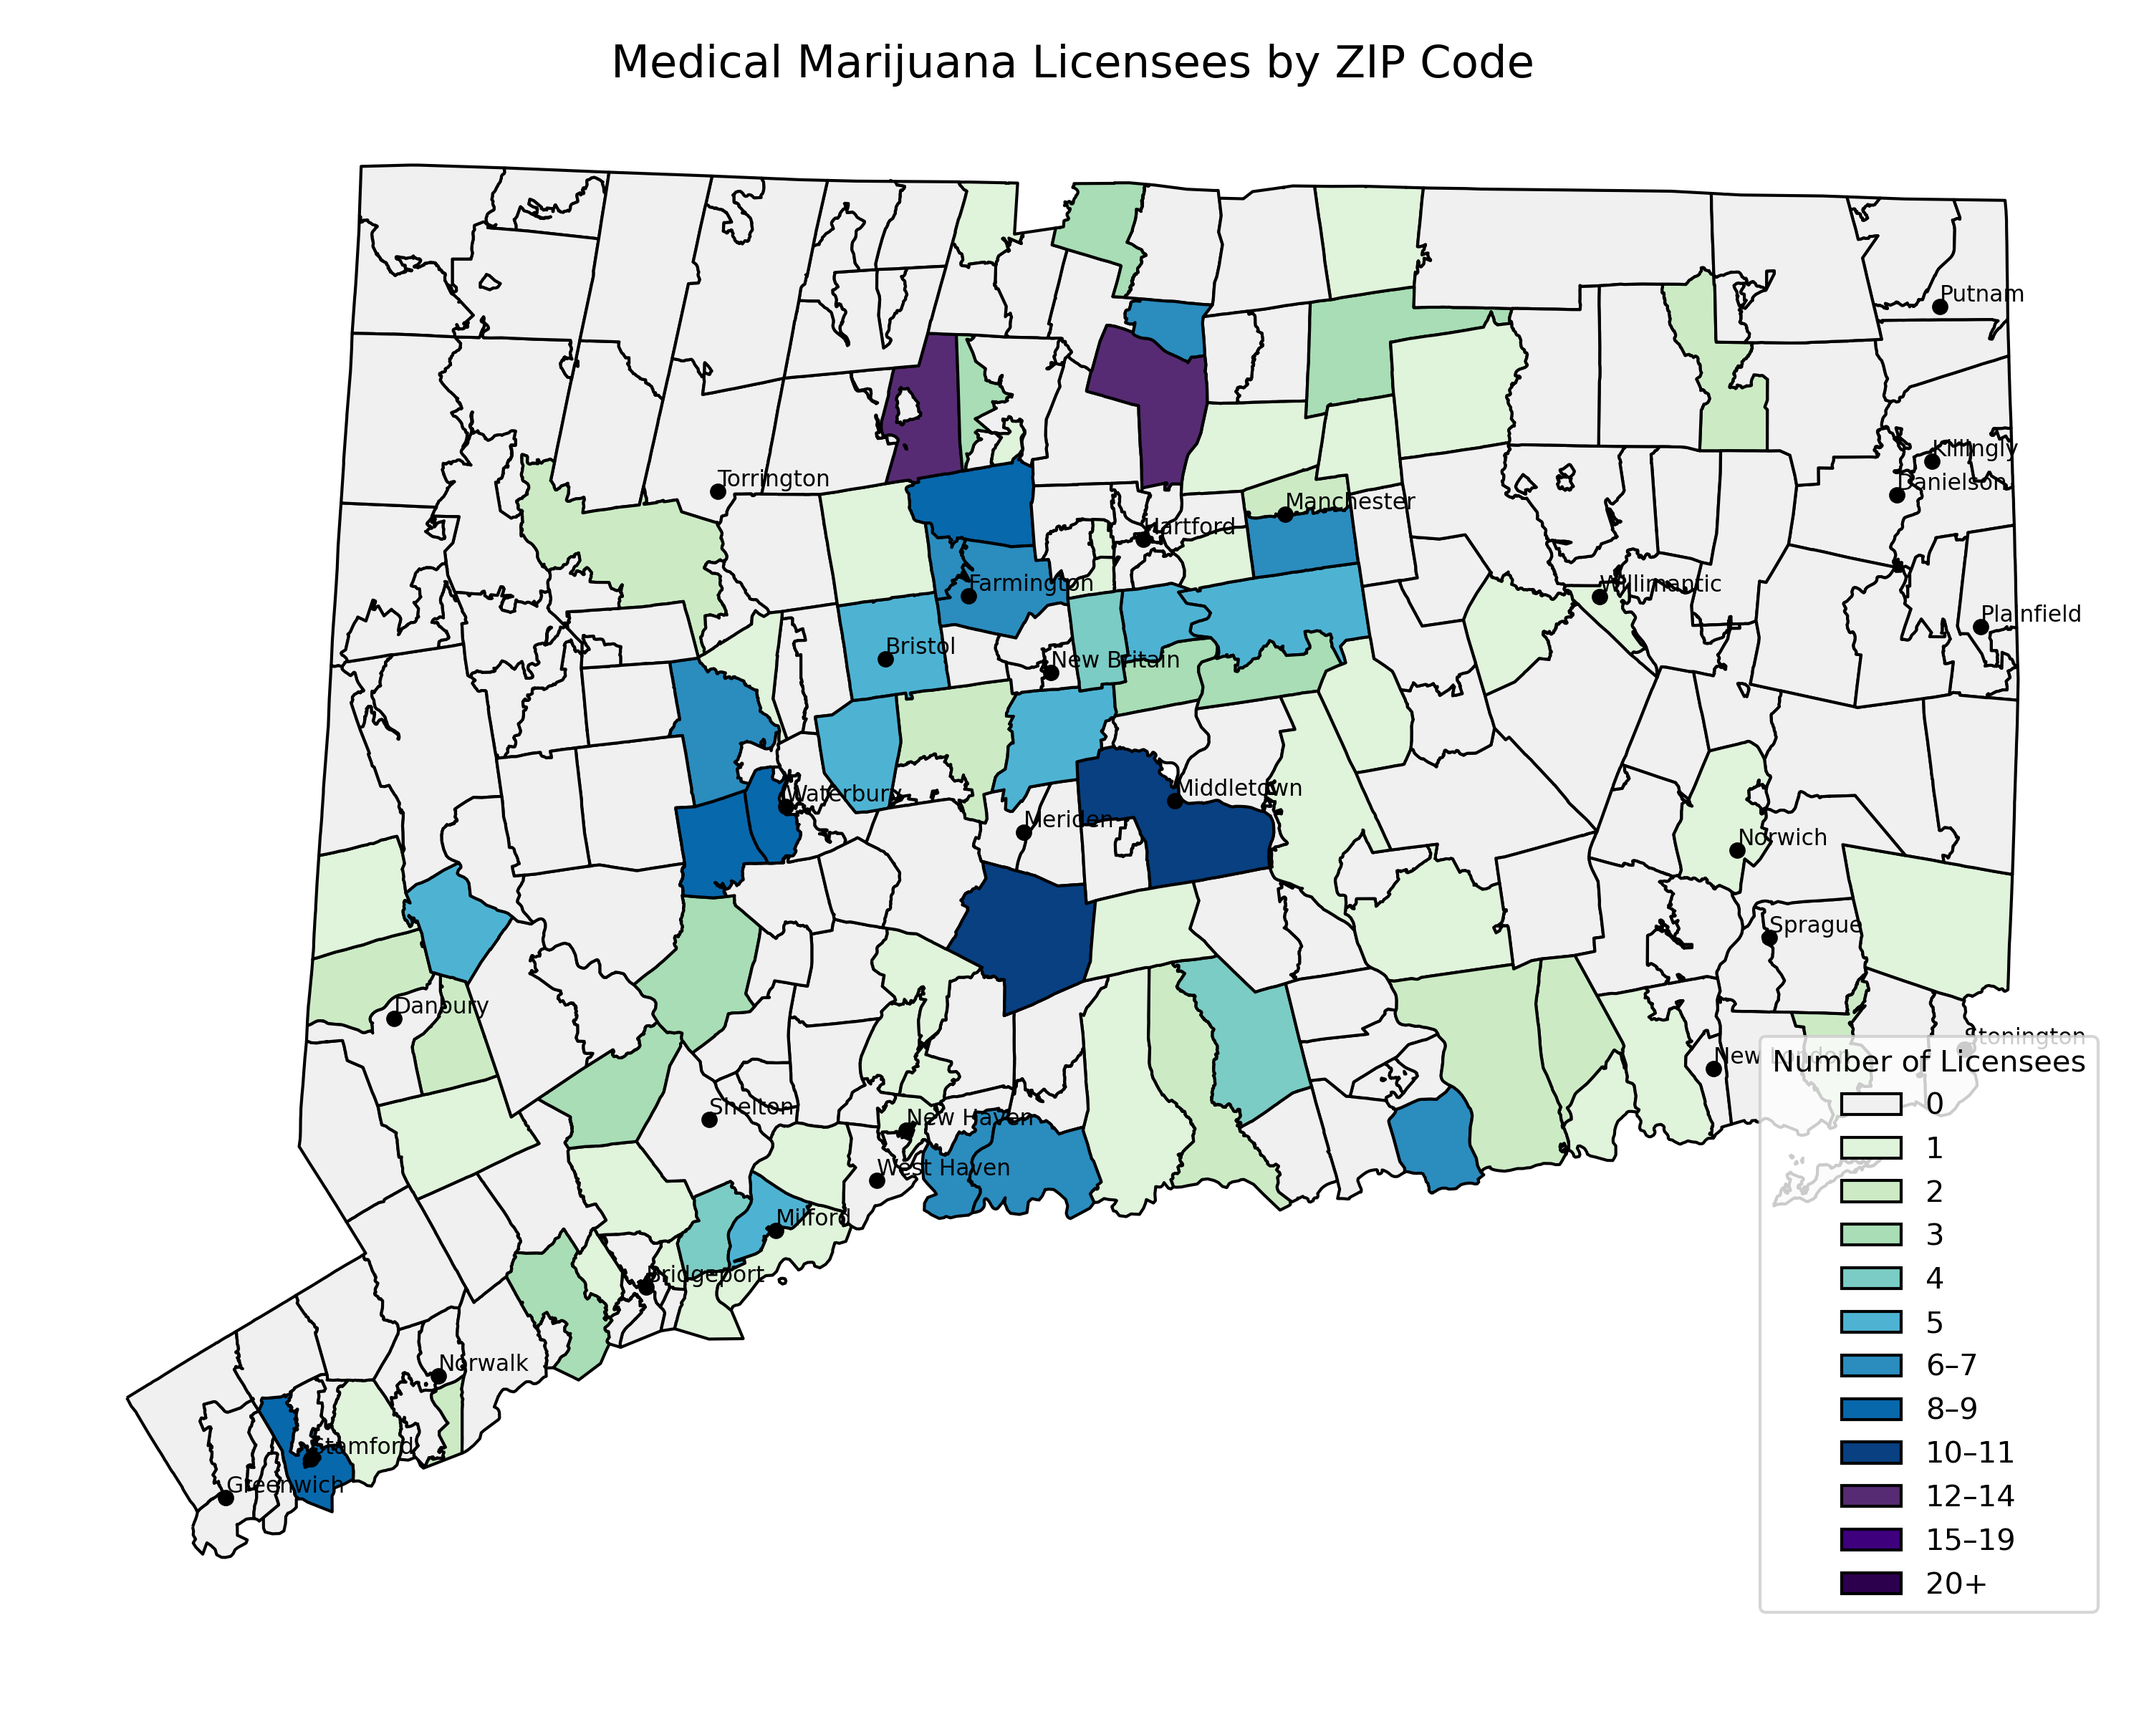
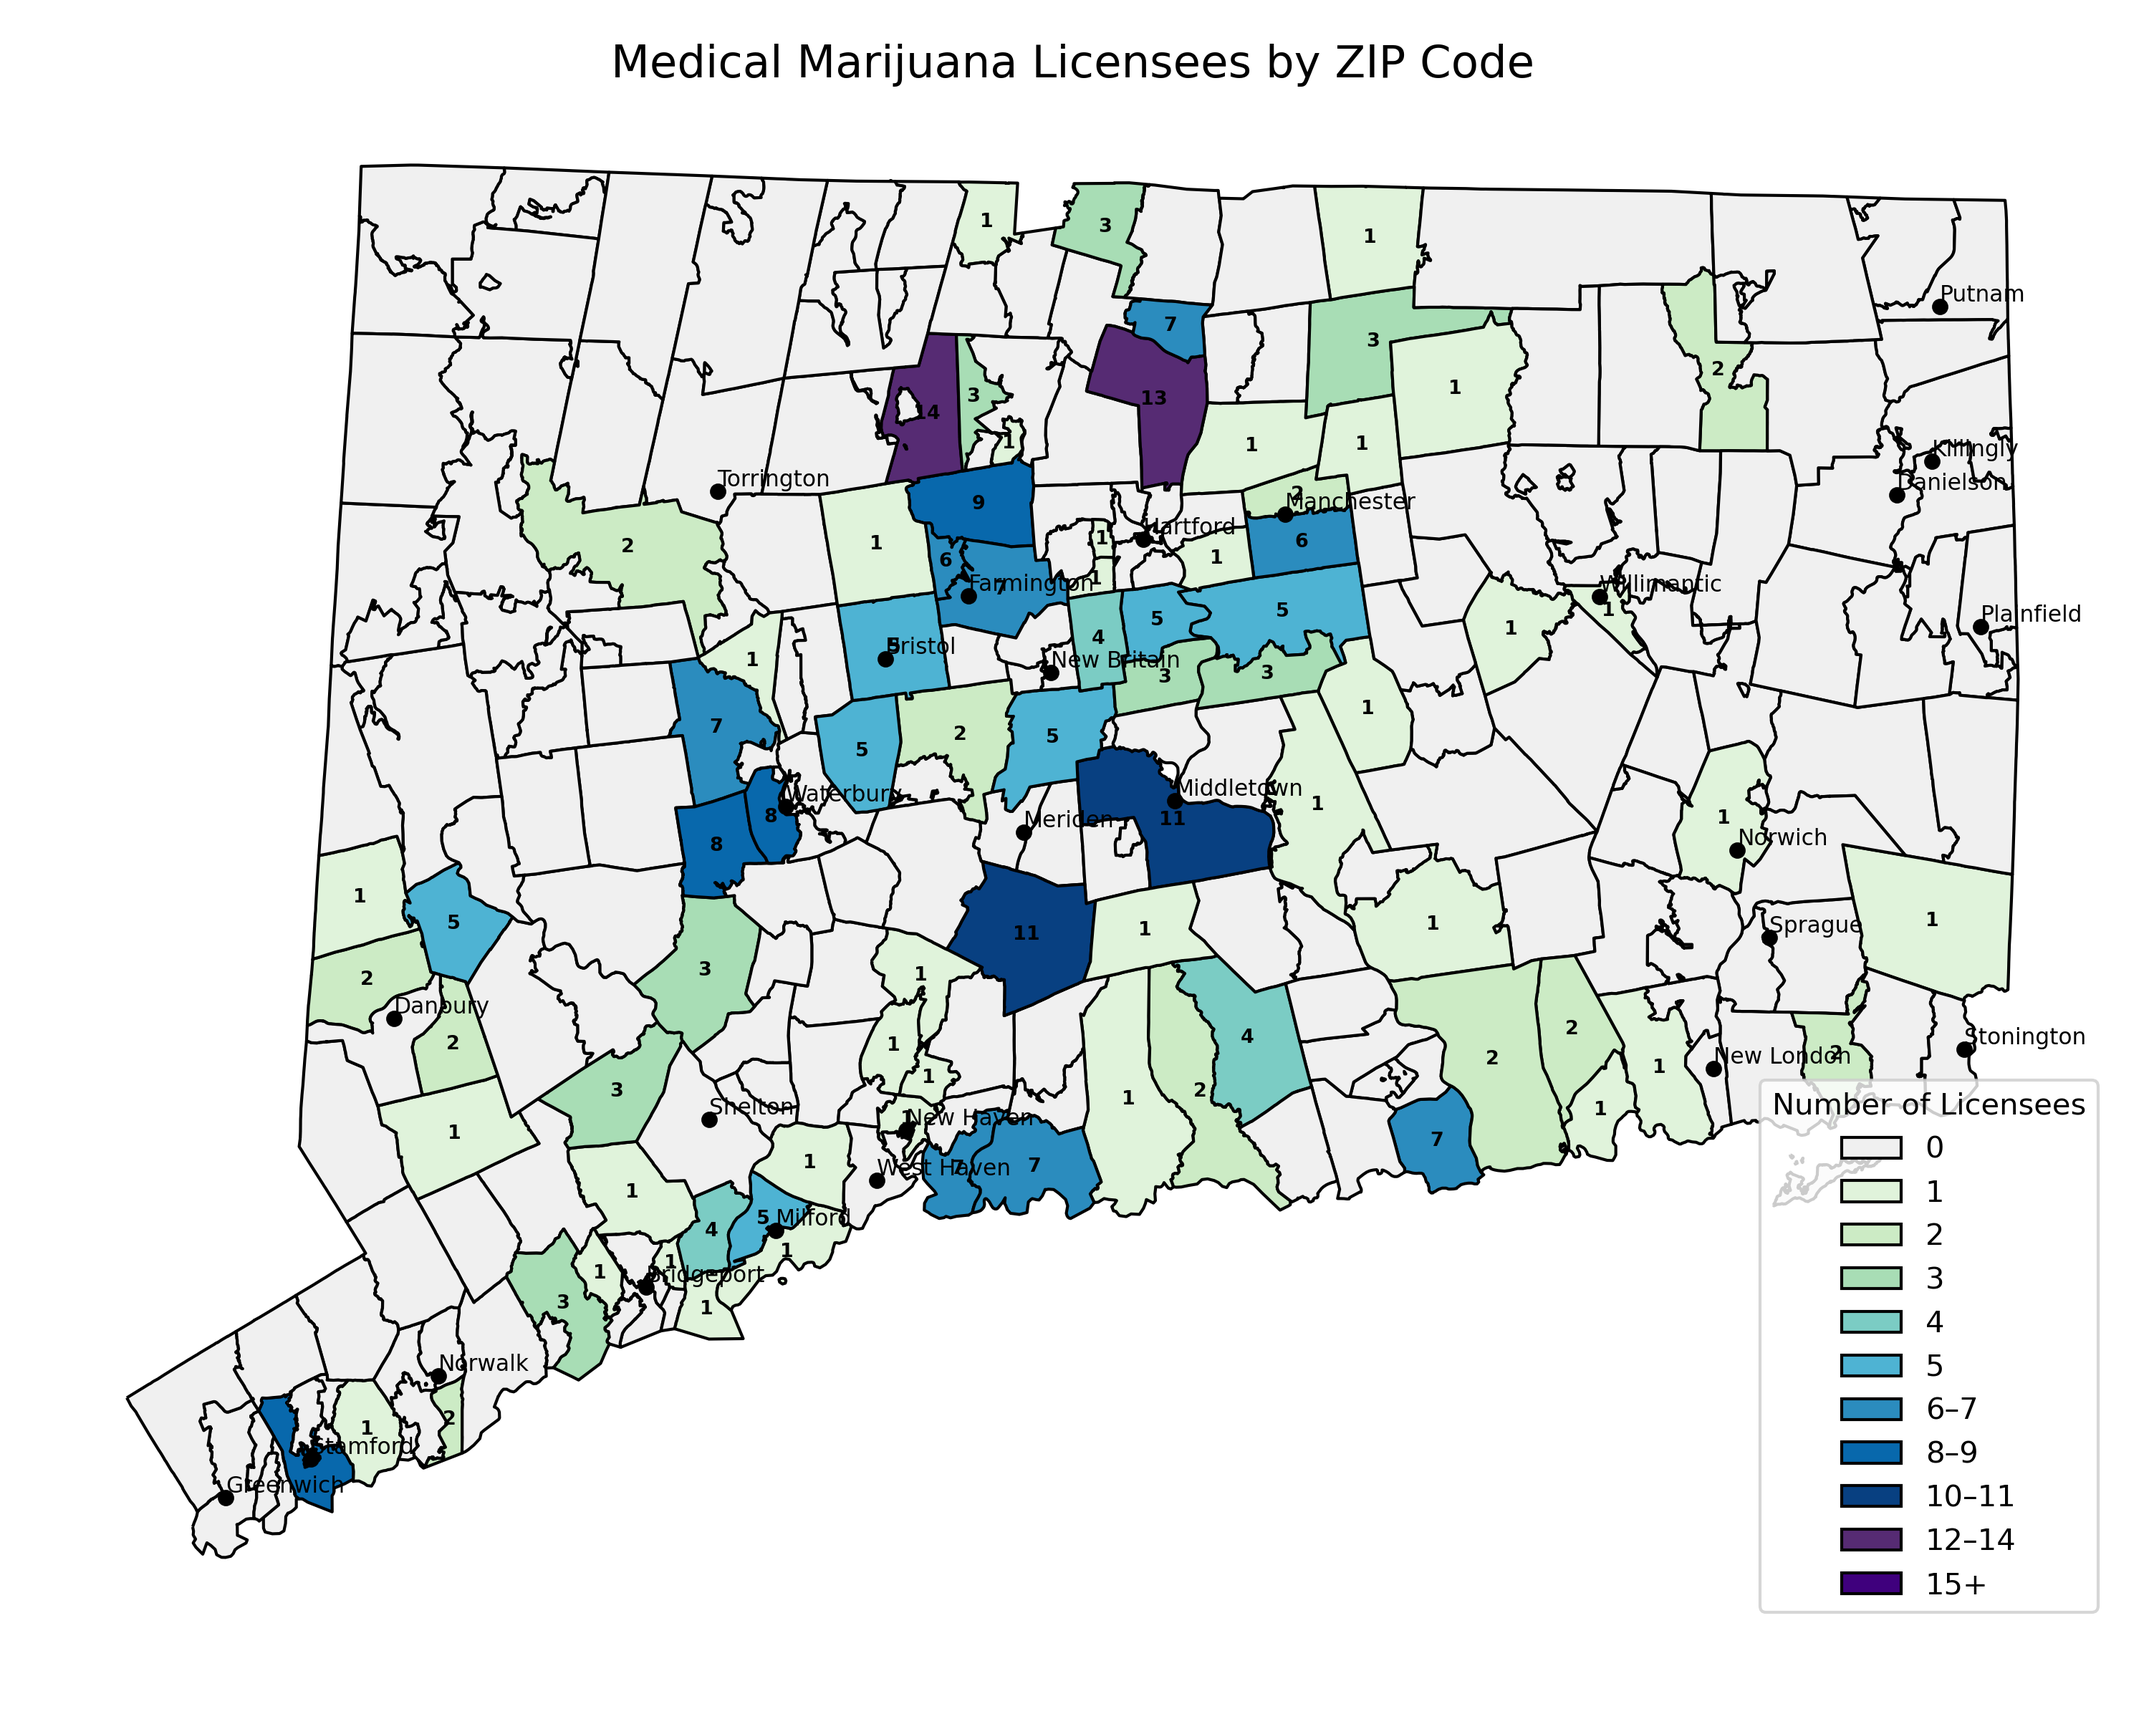
more stuff for vis eight

Changed region(s): [[0.837, 0.6875, 0.93, 0.9375], [0.806, 0.5938, 0.992, 0.6562]]

diff --git a/stage3.py b/stage3.py
@@ -405,10 +405,8 @@ def vis_Eight():
             return '10–11'
         elif x <= 14:
             return '12–14'
-        elif x <= 19:
-            return '15–19'
         else:
-            return '20+'
+            return '15+'
 
     merged["count_cat"] = merged["license_count"].apply(classify_count)
 
@@ -423,8 +421,7 @@ def vis_Eight():
         '8–9': '#0868ac',
         '10–11': '#084081',
         '12–14': '#562b73',
-        '15–19': '#3f007d',
-        '20+': '#2c004d'
+        '15+': '#3f007d',
     }
 
     merged["color"] = merged["count_cat"].map(color_map)
@@ -466,6 +463,14 @@ def vis_Eight():
     #Plot
     fig, ax = plt.subplots(figsize=(10, 8))
     merged.plot(color=merged["color"], edgecolor="black", ax=ax)
+
+    #number of licensees in each ZIP code
+    merged["centroid"] = merged.geometry.centroid
+    for idx, row in merged.iterrows():
+        x, y = row["centroid"].x, row["centroid"].y
+        if row["license_count"] > 0:
+            ax.text(x, y, str(row["license_count"]), fontsize=6.5, ha="center", va="center", color="black",
+                    weight="bold")
 
     #city points
     city_points.plot(ax=ax, color="black", markersize=20, zorder=3)
